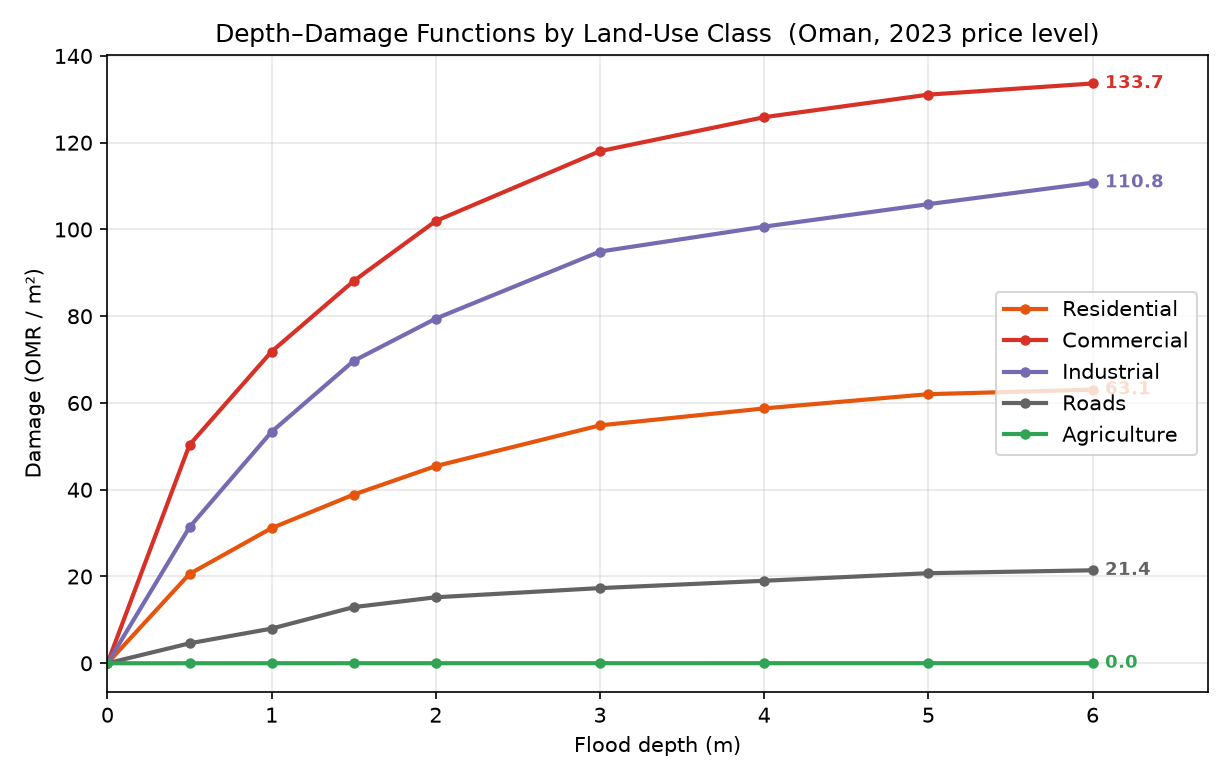
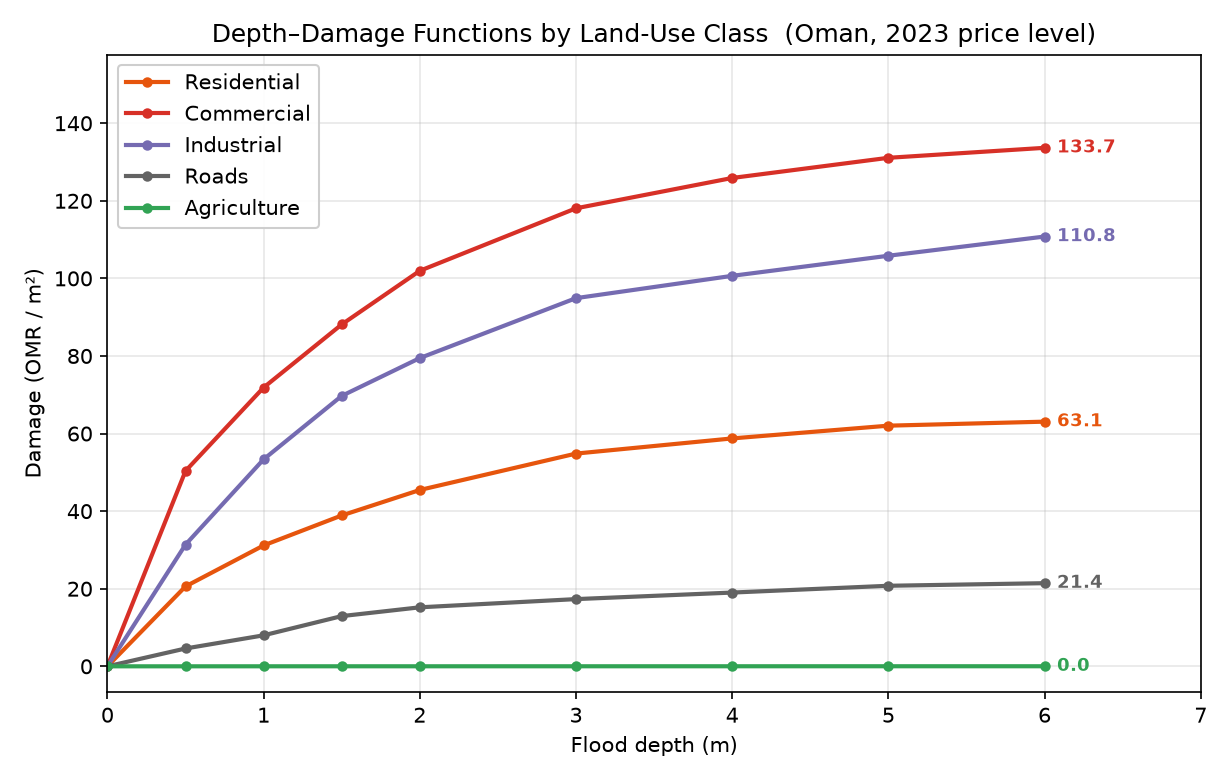
Client-ready report rewrite; chart fixes; clearer map population labels
- Rewrite report in professional client tone: methodology with equations,
  assumptions table, comprehensive damage/exposure tables, multi-criteria
  decision assessment, 200 & 500yr focus, EAPE defined; hazard->flood maps
- Charts: refresh AED (0.374), enlarge damage-by-class bar totals, fix
  depth-damage legend overlap, relabel scheme
- Maps: population footer now reads "Pop. exposed > 1 m:" (clearer)

diff --git a/report_build.js b/report_build.js
@@ -4,117 +4,177 @@ const { Document, Packer, Paragraph, TextRun, Table, TableRow, TableCell,
   Footer, PageNumber, LevelFormat } = require("docx");
 
 const OUT = "output", MAPS = "output/maps";
-const CW = 9026; // A4 content width (DXA)
+const CW = 9026;
 const GREY = { style: BorderStyle.SINGLE, size: 1, color: "CCCCCC" };
 const cellB = { top: GREY, bottom: GREY, left: GREY, right: GREY };
 
 const img = (p, w, h, cap) => {
-  const kids = [ new Paragraph({ alignment: AlignmentType.CENTER, spacing: { before: 120, after: 40 },
-    children: [ new ImageRun({ type: "png", data: fs.readFileSync(p),
-      transformation: { width: w, height: h },
+  const k = [ new Paragraph({ alignment: AlignmentType.CENTER, spacing: { before: 120, after: 40 },
+    children: [ new ImageRun({ type: "png", data: fs.readFileSync(p), transformation: { width: w, height: h },
       altText: { title: cap, description: cap, name: cap } }) ] }) ];
-  if (cap) kids.push(new Paragraph({ alignment: AlignmentType.CENTER, spacing: { after: 160 },
+  if (cap) k.push(new Paragraph({ alignment: AlignmentType.CENTER, spacing: { after: 160 },
     children: [ new TextRun({ text: cap, italics: true, size: 18, color: "666666" }) ] }));
-  return kids;
+  return k;
 };
 const P = (runs, opts={}) => new Paragraph({ spacing: { after: 120 }, ...opts,
   children: (Array.isArray(runs)?runs:[new TextRun(runs)]) });
+const EQ = (t) => new Paragraph({ alignment: AlignmentType.CENTER, spacing:{before:60,after:120},
+  children:[ new TextRun({ text:t, italics:true, size:22 }) ] });
 const H1 = t => new Paragraph({ heading: HeadingLevel.HEADING_1, children:[new TextRun(t)] });
 const H2 = t => new Paragraph({ heading: HeadingLevel.HEADING_2, children:[new TextRun(t)] });
 const bullet = t => new Paragraph({ numbering:{reference:"b",level:0}, spacing:{after:60},
   children:[Array.isArray(t)?null:new TextRun(t)].filter(Boolean).concat(Array.isArray(t)?t:[]) });
+const cap = (t) => new Paragraph({ alignment:AlignmentType.CENTER, spacing:{before:40,after:160},
+  children:[ new TextRun({ text:t, italics:true, size:18, color:"666666" }) ] });
 
-// table helper
-function table(headers, rows, widths, highlightLast) {
-  const mk = (txt, opts={}) => new TableCell({ borders: cellB, width:{size:opts.w,type:WidthType.DXA},
-    shading: opts.fill?{fill:opts.fill,type:ShadingType.CLEAR}:undefined,
-    margins:{top:60,bottom:60,left:110,right:110},
-    children:[new Paragraph({ alignment: opts.al||AlignmentType.LEFT,
-      children:[new TextRun({ text:String(txt), bold:!!opts.bold, size:20, color:opts.color })] })] });
+function table(headers, rows, widths, hiLast) {
+  const mk = (txt, o={}) => new TableCell({ borders: cellB, width:{size:o.w,type:WidthType.DXA},
+    shading: o.fill?{fill:o.fill,type:ShadingType.CLEAR}:undefined,
+    margins:{top:50,bottom:50,left:100,right:100},
+    children:[new Paragraph({ alignment:o.al||AlignmentType.LEFT,
+      children:[new TextRun({ text:String(txt), bold:!!o.bold, size:19, color:o.color })] })] });
   const hr = new TableRow({ tableHeader:true, children: headers.map((h,i)=>
     mk(h,{w:widths[i], bold:true, color:"FFFFFF", fill:"333333", al:i?AlignmentType.RIGHT:AlignmentType.LEFT})) });
-  const trs = rows.map((r,ri)=>{ const last = highlightLast && ri===rows.length-1;
+  const trs = rows.map((r,ri)=>{ const last = hiLast && ri===rows.length-1;
     return new TableRow({ children: r.map((c,i)=> mk(c,{w:widths[i],
       al:i?AlignmentType.RIGHT:AlignmentType.LEFT, bold:last, fill:last?"DDEBF7":(ri%2?"F2F2F2":undefined)})) }); });
   return new Table({ width:{size:CW,type:WidthType.DXA}, columnWidths:widths, rows:[hr,...trs] });
 }
 
-const AED = [["2","345,808","413,027"],["5","1,011,369","667,876"],["10","2,286,454","1,105,001"],
- ["25","3,513,744","1,352,664"],["50","4,670,209","1,576,424"],["100","5,900,757","1,818,153"],
- ["200","7,456,451","2,093,806"],["500","9,499,861","2,813,500"],["1000","11,019,644","3,789,619"],
- ["10000","14,243,470","8,922,389"]];
+// ---- data
+const DMG = [ // RP, base, scheme, avoided, areaB, areaS
+ ["2","430,603","413,027","17,576","3.21","1.98"],["5","1,011,369","667,876","343,493","4.72","2.87"],
+ ["10","2,286,454","1,105,001","1,181,453","6.09","3.73"],["25","3,513,744","1,352,664","2,161,081","6.80","4.09"],
+ ["50","4,670,209","1,576,424","3,093,785","7.14","4.39"],["100","5,900,757","1,818,152","4,082,605","7.39","4.68"],
+ ["200","7,456,451","2,093,806","5,362,645","7.57","4.96"],["500","9,499,861","2,813,500","6,686,361","7.75","5.73"],
+ ["1000","11,019,644","3,789,619","7,230,025","7.88","6.32"],["10000","14,243,470","8,922,389","5,321,080","8.12","7.76"] ];
+const EXP = [ // RP, expB, expS, gt1B, gt1S, avoidedGt1
+ ["2","1,796","1,085","158","84","74"],["5","3,147","1,629","524","132","392"],["10","4,527","2,155","1,335","205","1,130"],
+ ["25","5,356","2,438","2,110","258","1,852"],["50","5,862","2,699","2,813","312","2,501"],["100","6,207","2,978","3,564","374","3,190"],
+ ["200","6,432","3,253","4,334","447","3,887"],["500","6,617","3,831","5,259","783","4,476"],
+ ["1000","6,724","4,305","5,790","1,531","4,259"],["10000","7,012","6,489","6,334","4,394","1,940"] ];
 
 const doc = new Document({
-  styles: { default:{ document:{ run:{ font:"Arial", size:22 } } }, paragraphStyles:[
+  styles:{ default:{ document:{ run:{ font:"Arial", size:22 } } }, paragraphStyles:[
     { id:"Heading1", name:"Heading 1", basedOn:"Normal", next:"Normal", quickFormat:true,
       run:{ size:30, bold:true, font:"Arial", color:"1F3864" }, paragraph:{ spacing:{before:280,after:140}, outlineLevel:0 } },
     { id:"Heading2", name:"Heading 2", basedOn:"Normal", next:"Normal", quickFormat:true,
-      run:{ size:24, bold:true, font:"Arial", color:"2E5496" }, paragraph:{ spacing:{before:180,after:100}, outlineLevel:1 } },
-  ]},
+      run:{ size:24, bold:true, font:"Arial", color:"2E5496" }, paragraph:{ spacing:{before:180,after:100}, outlineLevel:1 } } ]},
   numbering:{ config:[{ reference:"b", levels:[{ level:0, format:LevelFormat.BULLET, text:"•", alignment:AlignmentType.LEFT, style:{ paragraph:{ indent:{ left:460, hanging:260 } } } }] }] },
   sections:[{
     properties:{ page:{ size:{ width:11906, height:16838 }, margin:{ top:1200, right:1440, bottom:1200, left:1440 } } },
     footers:{ default: new Footer({ children:[ new Paragraph({ alignment:AlignmentType.CENTER,
-      children:[ new TextRun({ text:"Wadi Majlas Flood Protection — Cost-Benefit Analysis   ·   ", size:16, color:"888888" }),
+      children:[ new TextRun({ text:"Wadi Majlas Flood Protection — Cost-Benefit Analysis    ", size:16, color:"888888" }),
         new TextRun({ children:[PageNumber.CURRENT], size:16, color:"888888" }) ] }) ] }) },
     children:[
       new Paragraph({ spacing:{after:40}, children:[ new TextRun({ text:"Wadi Majlas Flood Protection", bold:true, size:40, color:"1F3864" }) ] }),
-      new Paragraph({ spacing:{after:240}, children:[ new TextRun({ text:"Cost-Benefit Analysis  ·  Quriyat, Oman", size:26, color:"555555" }) ] }),
+      new Paragraph({ spacing:{after:240}, children:[ new TextRun({ text:"Technical and Economic Assessment  ·  Quriyat, Oman", size:26, color:"555555" }) ] }),
 
-      H1("1. Purpose"),
-      P("This study assesses whether the proposed Wadi Majlas dam-and-channel scheme is worth building. It compares the world with no scheme (baseline) against the world with the dam and dykes in place (scheme), across ten flood return periods from 2 to 10,000 years. For each we estimate flood damage, the annual expected damage, the resulting net present value and benefit-cost ratio, and — separately — how many people are pulled out of harm's way."),
-      P("The short answer is uncomfortable: on money alone the scheme does not pay back. But the same scheme is a strong life-safety measure. Both results are reported here so the decision can be made with eyes open."),
+      H1("1. Purpose and scope"),
+      P("This report presents the technical and economic assessment of the proposed Wadi Majlas flood-protection scheme — a storage dam on the wadi together with downstream channel dykes — evaluated against the do-nothing baseline. It quantifies the flood hazard, the direct flood damage, the economic return of the scheme, and its effect on the population at risk, to support the design and investment decision."),
+      P("The scheme is designed to protect against the 200-year flood, with its performance additionally verified at the 500-year event. Results are reported for ten return periods from 2 to 10,000 years so that both the design condition and the wider risk profile are visible."),
 
-      H1("2. Approach"),
-      P("Flood depth for every return period and both conditions comes from the HEC-RAS 2D model, exported at 2 m resolution. Depth is combined with land-use-specific depth-damage functions to produce a damage value for each event, which is then integrated over probability to give the Annual Expected Damage (AED). The difference between baseline and scheme AED is the annual avoided damage — the benefit stream. This is discounted over the project horizon and compared with construction, relocation and maintenance costs to give NPV and BCR. Population exposure is estimated the same way, using gridded population instead of damage."),
+      H1("2. Methodology"),
+      P("Flood damage is estimated cell-by-cell by combining modelled flood depth with land-use-specific depth-damage functions, then integrated over the full range of flood probabilities to give the Annual Expected Damage. The difference between the baseline and scheme conditions is the benefit stream, which is discounted and compared with scheme costs. Population exposure is derived on the same probabilistic basis."),
+      P([ new TextRun({text:"Direct damage per event. ",bold:true}), new TextRun("For a return period T, damage is summed over every flooded raster cell:") ]),
+      EQ("D(T) = Σ  fᶜ(h) · a"),
+      P([ new TextRun("where "), new TextRun({text:"fᶜ(h)",italics:true}), new TextRun(" is the depth-damage value (OMR/m²) for the land-use class c at flood depth "),
+        new TextRun({text:"h",italics:true}), new TextRun(", and "), new TextRun({text:"a",italics:true}), new TextRun(" is the cell area (m²).") ]),
+      P([ new TextRun({text:"Annual Expected Damage (AED). ",bold:true}), new TextRun("Damage is integrated over the annual exceedance probability "),
+        new TextRun({text:"p = 1/T",italics:true}), new TextRun(":") ]),
+      EQ("AED = ∫₀¹ D(p) dp  ≈  Σ  ½ ( Dᵢ + Dᵢ₊₁ )( pᵢ − pᵢ₊₁ )"),
+      P("evaluated by the trapezoidal rule over the modelled return periods. The avoided damage is the benefit of the scheme:"),
+      EQ("Annual avoided damage = AED(baseline) − AED(scheme)"),
+      P([ new TextRun({text:"Net Present Value and Benefit-Cost Ratio. ",bold:true}), new TextRun("Benefits and maintenance are discounted over the appraisal horizon "),
+        new TextRun({text:"n",italics:true}), new TextRun(" at rate "), new TextRun({text:"r",italics:true}), new TextRun(":") ]),
+      EQ("NPV = Σₜ₌₁ⁿ ( B − M ) / (1 + r)ᵗ  −  C₀"),
+      EQ("BCR = PV(benefits) / PV(costs) = PV(B) / [ C₀ + PV(M) ]"),
+      P([ new TextRun("where "), new TextRun({text:"B",italics:true}), new TextRun(" is the annual avoided damage, "),
+        new TextRun({text:"M",italics:true}), new TextRun(" the annual maintenance, and "), new TextRun({text:"C₀",italics:true}),
+        new TextRun(" the initial cost (dam + dykes + relocation). A scheme is economically justified when NPV > 0 and BCR > 1.") ]),
+      P([ new TextRun({text:"Population exposure. ",bold:true}), new TextRun("The same integration is applied to the number of people in the flood, giving the "),
+        new TextRun({text:"Expected Annual People Exposed (EAPE)",bold:true}), new TextRun(" — the average number of residents in floodwater per year. EAPE is reported for all floodwater and, as a life-safety indicator, for water deeper than one metre. “EAPE avoided” is the reduction the scheme delivers.") ]),
+      P([ new TextRun({text:"Note on hazard. ",bold:true}), new TextRun("The maps in Section 8 present flood depth and the resulting damage. A full flood "),
+        new TextRun({text:"hazard-to-life",italics:true}), new TextRun(" rating combines depth with flow velocity (typically HR = d(v + 0.5)); where velocity outputs are available this classification can be added to sharpen the life-safety assessment (see Section 10).") ]),
 
-      H1("3. Inputs"),
-      bullet("Flood depth (max) grids — HEC-RAS 2D, 2 m, baseline and scheme, 10 return periods."),
-      bullet("Depth-damage functions — OMR/m² by land use (residential, commercial, industrial, roads, agriculture), Oman price level."),
-      bullet("Cadastral land-use polygons, classified by use."),
-      bullet("Costs — dam 75 M OMR, dykes/channel 5 M OMR, relocation derived from plots within the works footprint; maintenance 1%/yr (dam) and 0.7%/yr (channel)."),
-      bullet("Discount rate 2.5%, appraisal horizon 50 years."),
-      bullet("Gridded population (GHS-POP 2025) for exposure and life-safety metrics."),
+      H1("3. Assumptions and inputs"),
+      table(["Item","Value / source","Notes"], [
+        ["Flood depth","HEC-RAS 2D, max depth, 2 m","Baseline and scheme, 10 return periods"],
+        ["Depth-damage functions","OMR/m² by land use","JRC global functions, Oman price level (2023)"],
+        ["Land use","Cadastral polygons","Residential, commercial, industrial, roads, agriculture"],
+        ["Dam capital cost","75,000,000 OMR",""],
+        ["Dyke / channel capital cost","5,000,000 OMR",""],
+        ["Relocation","Derived","Plots within works footprint × unit land price"],
+        ["Maintenance — dam","1.0% of capital / yr","From year 5"],
+        ["Maintenance — dykes","0.7% of capital / yr","From year 2"],
+        ["Discount rate","2.5%",""],
+        ["Appraisal horizon","50 years",""],
+        ["Population","GHS-POP 2025","Gridded residents"],
+        ["Damage below 2-yr / above 10,000-yr","Zero / held flat","Standard AED tail treatment"],
+      ], [2500,3100,3426]),
 
       H1("4. Flood damage"),
-      P("Damage rises steeply with return period and is overwhelmingly residential — agriculture floods the largest area but contributes almost nothing in value. The scheme cuts damage at every return period by confining flow to the channel and lowering depths across the protected zone."),
-      ...img(OUT+"/chart_damage_by_class.png", 600, 231, "Figure 1. Flood damage by land-use class — baseline vs scheme (total M OMR on each bar)."),
-      P("Total direct damage per event (OMR):"),
-      table(["Return period (yr)","Baseline","Scheme"], AED, [3009,3009,3008]),
+      P("Direct damage rises steeply with return period and is dominated by residential property; agriculture floods the largest area but contributes little value. The scheme reduces damage at every return period by confining flow to the dyked channel and lowering depths across the protected area."),
+      ...img(OUT+"/chart_damage_by_class.png", 600, 231, "Figure 1. Flood damage by land-use class — baseline vs scheme (total M OMR labelled on each bar)."),
+      P("Damage, avoided damage and inundated area by return period:"),
+      table(["RP (yr)","Baseline (OMR)","Scheme (OMR)","Avoided (OMR)","Base area (km²)","Scheme area (km²)"],
+        DMG, [820,1960,1960,1960,1163,1163]),
+      cap("Table 1. Direct flood damage and inundated area by return period."),
 
-      H1("5. Economics"),
-      P([ new TextRun("Integrating these over probability gives an "),
-        new TextRun({text:"AED of 0.77 M OMR/yr baseline against 0.40 M OMR/yr with the scheme — an annual avoided damage of about 0.37 M OMR.", bold:true}),
-        new TextRun(" Discounted over 50 years this is worth ~10.6 M OMR, well short of the ~80 M OMR of capital and relocation, before maintenance.") ]),
-      ...img(OUT+"/AED_curves.png", 600, 258, "Figure 2. Annual Expected Damage — the area between the curves is the avoided damage."),
+      H1("5. Economic appraisal"),
+      P([ new TextRun("Integrating damage over probability gives an Annual Expected Damage of "),
+        new TextRun({text:"0.77 M OMR/yr for the baseline and 0.40 M OMR/yr for the scheme — an annual avoided damage of 0.37 M OMR.",bold:true}),
+        new TextRun(" Over the 50-year horizon this benefit is worth about 10.6 M OMR in present-value terms.") ]),
+      ...img(OUT+"/AED_curves.png", 600, 258, "Figure 2. Annual Expected Damage — the shaded area between the curves is the avoided damage."),
       table(["Metric","Value (OMR)"], [
-        ["AED baseline","771,767"],["AED scheme","397,828"],["Annual avoided damage","373,939"],
-        ["Initial cost (dam 75 + channel 5 + relocation 0.17)","80,168,080"],
-        ["PV of benefits (50 yr @ 2.5%)","10,605,780"],["PV of maintenance","19,408,788"],
-        ["PV of costs","99,576,867"],["NPV","−88,971,087"],["BCR","0.107"]],
+        ["AED — baseline","771,767"],["AED — scheme","397,828"],["Annual avoided damage","373,939"],
+        ["Initial cost (dam 75 + dykes 5 + relocation 0.17)","80,168,080"],
+        ["Present value of benefits (50 yr @ 2.5%)","10,605,780"],["Present value of maintenance","19,408,788"],
+        ["Present value of costs","99,576,867"],["Net Present Value (NPV)","−88,971,087"],["Benefit-Cost Ratio (BCR)","0.107"] ],
         [6018,3008], true),
-      P([ new TextRun({text:"On a pure damage basis the scheme returns about 11 fils per rial spent (BCR 0.107; NPV −89 M OMR).", bold:true}),
-        new TextRun(" It would need land-and-buildings at risk several times greater than exists, or a far cheaper structure, to break even.") ]),
+      cap("Table 2. Economic summary."),
+      P("On direct-damage grounds the scheme does not recover its cost: the benefit-cost ratio is 0.11 and the net present value is −89 M OMR. This reflects the nature of the catchment — the protected land is predominantly agricultural and low-density residential, and the works reduce flood depth more than flood extent, so the avoided monetary damage is modest relative to the capital outlay. The economic result is placed alongside the life-safety and wider benefits in Section 9."),
 
-      H1("6. Population and life safety"),
-      P("This is where the scheme earns its keep. It does not simply cut a monetary loss — it removes people from dangerous water. Expressed as an expected-annual figure, the scheme keeps about 809 people a year out of floodwater altogether, and about 345 a year out of life-threatening water deeper than one metre."),
-      ...img(OUT+"/chart_exposure.png", 600, 231, "Figure 3. Population exposed (left) and in >1 m life-threatening water (right); orange is the exposure the scheme avoids."),
-      P([ new TextRun("At the 100-year event the effect is stark: people in water deeper than one metre fall from "),
-        new TextRun({text:"3,564 to 374 — an 89% reduction.", bold:true}),
-        new TextRun(" The scheme converts deep, fast, dangerous flooding into shallow nuisance flooding across the populated area.") ]),
+      H1("6. Population exposure and life safety"),
+      P([ new TextRun("Expressed as an expected-annual figure, the scheme keeps about "),
+        new TextRun({text:"809 people per year out of floodwater, and about 345 per year out of life-threatening water deeper than one metre",bold:true}),
+        new TextRun(" (EAPE avoided). The benefit grows with the severity of the event.") ]),
+      ...img(OUT+"/chart_exposure.png", 600, 231, "Figure 3. People exposed (left) and in >1 m water (right); the shaded band is the exposure the scheme avoids."),
+      P("At the design and check events the reduction in life-threatening exposure is decisive:"),
+      table(["Event","Exposed — base","Exposed — scheme","In >1 m — base","In >1 m — scheme",">1 m reduction"],
+        [["200-year","6,432","3,253","4,334","447","90%"],["500-year","6,617","3,831","5,259","783","85%"]],
+        [1300,1545,1545,1545,1545,1546]),
+      cap("Table 3. Population exposure at the 200-year design event and 500-year check."),
+      P("The scheme converts deep, fast, dangerous flooding into shallow nuisance flooding across the populated area. Full exposure figures for all return periods are given in Table 4."),
+      table(["RP (yr)","Exposed base","Exposed scheme",">1 m base",">1 m scheme","Avoided >1 m"],
+        EXP, [1226,1560,1560,1500,1500,1680]),
+      cap("Table 4. Population exposure by return period."),
 
-      H2("Other non-monetized benefits"),
-      P("Lives saved are the headline, but they are not the only benefit that the damage-based ratio cannot see. A decision on this scheme should also weigh:"),
-      bullet("Injury and trauma avoided — the physical injuries, and the lasting displacement and psychological toll, that follow a fatal flash flood."),
-      bullet("Continuity of access — roads and routes to homes, the hospital and emergency services stay passable during an event, exactly when they are needed most; deep wadi flooding otherwise cuts the town in two."),
-      bullet("Protected livelihoods — repeated inundation degrades farmland and interrupts shops and businesses; reducing depth and duration protects income, not just buildings."),
-      bullet("Lower response and recovery burden — every avoided major flood is a rescue, clean-up and reconstruction effort the authorities do not have to mount."),
-      bullet("Community stability and confidence — durable flood protection supports investment and discourages abandonment of exposed but valuable land."),
-      bullet("Reduced erosion and sedimentation along the wadi and to downstream roads, culverts and services."),
-      P("None of these sit in the numbers above, and several could be quantified with further study. They all point the same way: the scheme is worth more than its property-damage benefit alone suggests."),
+      H2("Non-monetized benefits"),
+      P("Beyond lives saved, the scheme delivers benefits that a damage-based ratio cannot capture but that bear on the decision:"),
+      bullet("Injury and trauma avoided — the injuries, displacement and lasting distress that follow a fatal flash flood."),
+      bullet("Continuity of access — roads and routes to homes, the hospital and emergency services stay passable during an event, when they are needed most."),
+      bullet("Protected livelihoods — repeated inundation degrades farmland and interrupts businesses; reducing depth and duration protects income, not only assets."),
+      bullet("Lower response and recovery burden on the authorities after each event."),
+      bullet("Community stability and confidence — durable protection supports investment and discourages abandonment of exposed land."),
+      bullet("Reduced erosion and sedimentation along the wadi and to downstream infrastructure."),
 
-      H1("7. Hazard maps"),
-      P("The 200- and 500-year events — depth then damage, baseline then scheme. The full set (all return periods, both conditions) accompanies this report."),
+      H1("7. Decision assessment"),
+      P("A flood-protection scheme cannot be judged on its benefit-cost ratio alone; the ratio values only direct property damage and is blind to life safety and service continuity. The table below weighs the economic result together with the non-monetary factors on a transparent scale. Weights are indicative and may be adjusted by the client to reflect policy priorities; a score of 5 is strong performance, 1 is weak."),
+      table(["Criterion","Weight","Score /5","Weighted","Assessment"], [
+        ["Economic return (BCR / NPV)","25%","1","0.25","Benefits below cost (BCR 0.11)"],
+        ["Life safety","30%","5","1.50","~90% fewer people in >1 m water at design event"],
+        ["Design-standard compliance","20%","5","1.00","Meets 200-yr target; resilient at 500-yr"],
+        ["Access to essential services","10%","4","0.40","Roads and hospital access maintained in flood"],
+        ["Livelihoods and property","10%","3","0.30","Reduced repeat inundation of homes and farmland"],
+        ["Environment and wadi morphology","5%","3","0.15","Reduced erosion and sedimentation"],
+        ["Overall","100%","—","3.60 / 5","Favourable overall, despite weak economics"],
+      ], [2450,900,900,1100,3676], true),
+      cap("Table 5. Multi-criteria assessment of the scheme (indicative weights)."),
+      P("Weighted across the factors that matter for a flood-protection scheme, the project scores 3.6 out of 5 — favourable — even though its economic criterion alone scores poorly. The single low score (economics) is outweighed by strong performance on life safety and design-standard compliance."),
+
+      H1("8. Flood maps"),
+      P("Flood depth and the resulting damage at the 200-year design event and the 500-year check, baseline then scheme. The complete set for all return periods accompanies this report."),
       H2("200-year event"),
       ...img(MAPS+"/depth_200yr_baseline.png", 560, 396, "Figure 4. Flood depth, 200-year — baseline."),
       ...img(MAPS+"/depth_200yr_scheme.png", 560, 396, "Figure 5. Flood depth, 200-year — scheme (dam axis in red, dykes in orange)."),
@@ -126,14 +186,17 @@ const doc = new Document({
       ...img(MAPS+"/damage_500yr_baseline.png", 560, 396, "Figure 10. Flood damage, 500-year — baseline."),
       ...img(MAPS+"/damage_500yr_scheme.png", 560, 396, "Figure 11. Flood damage, 500-year — scheme."),
 
-      H1("8. Findings and recommendation"),
-      P([ new TextRun({text:"Do not defend this scheme on its benefit-cost ratio. ", bold:true}),
-        new TextRun("At 0.107 it fails the economic test decisively, and no reasonable change to the discount rate rescues it. The reason is structural: the protected land is mostly low-value agriculture and modest housing, and the works reduce flood depth more than flood extent, so the monetary saving is small.") ]),
-      P([ new TextRun({text:"Do weigh it on life safety. ", bold:true}),
-        new TextRun("The scheme removes roughly nine in ten people from life-threatening flooding at the design event and avoids around 345 life-threatening exposures a year in expectation. That is the honest case for building it, and a benefit-cost ratio built only on property damage cannot see it.") ]),
-      P("Two practical points. First, at the very frequent 2-year event the scheme currently shows slightly worse flooding than baseline — a likely backwater/ponding effect behind the works that should be checked in the hydraulic model. Second, if a monetary decision is unavoidable, the life-safety benefit can be valued explicitly (value-of-statistical-life), but that is a policy choice and is deliberately left out of the figures above."),
-      P([ new TextRun({text:"Bottom line: ", bold:true}),
-        new TextRun("a poor investment in property terms, a strong one in human terms. The decision should be made on that trade-off, not on the BCR alone.") ]),
+      H1("9. Conclusion"),
+      P("The Wadi Majlas scheme meets its 200-year protection standard and performs well at the 500-year check. Economically, on avoided direct damage alone it does not pay back (BCR 0.11, NPV −89 M OMR), because the protected assets are mostly low-value. Its principal benefit is the reduction of flood risk to life: at the design event it removes roughly nine in ten people from life-threatening water, and in expected-annual terms it avoids about 345 life-threatening exposures each year, together with the wider benefits to access, livelihoods and the community set out above."),
+      P("On a combined assessment the scheme is favourable. It is recommended that the investment decision be taken on this combined economic and life-safety basis, recognising that the benefit-cost ratio, taken in isolation, understates the true value of the works."),
+
+      H1("10. Recommendations and next steps"),
+      bullet("Adopt the combined economic + life-safety basis (Section 7) for the decision, rather than the benefit-cost ratio alone."),
+      bullet([ new TextRun("Refine the life-safety assessment with a depth-velocity "),
+        new TextRun({text:"hazard-to-life",italics:true}),
+        new TextRun(" rating (HR = d(v + 0.5)) once maximum-velocity grids are exported from the model, classifying hazard as low / moderate / significant / extreme.") ]),
+      bullet("Review the 2-year event, where the scheme shows a marginal local increase in depth (a backwater effect behind the works), to confirm no adverse impact at frequent flows."),
+      bullet("If a fully monetized decision is required, value the life-safety benefit explicitly using a value-of-statistical-life approach, reported as a range."),
     ]
   }]
 });

diff --git a/scripts/plot_charts.py b/scripts/plot_charts.py
@@ -28,7 +28,8 @@ def fig_curves():
                     color=col, va="center", fontweight="bold")
     ax.set_xlabel("Flood depth (m)"); ax.set_ylabel("Damage (OMR / m²)")
     ax.set_title("Depth–Damage Functions by Land-Use Class  (Oman, 2023 price level)")
-    ax.set_xlim(0, 6.7); ax.grid(alpha=.3); ax.legend(loc="center right")
+    ax.set_xlim(0, 7.0); ax.set_ylim(top=max(C.DAMAGE_CURVES["Commercial"]) * 1.18)
+    ax.grid(alpha=.3); ax.legend(loc="upper left", framealpha=.95)
     fig.tight_layout(); fig.savefig(os.path.join(C.OUT_DIR, "chart_depth_damage_curves.png"), dpi=150)
 
 
@@ -74,7 +75,7 @@ def fig_damage_class():
             ax.bar(x, vals, bottom=bottom, color=PLOT[c], label=c); bottom += vals
         for xi, tot in zip(x, bottom):
             ax.annotate(f"{tot:.1f}", (xi, tot), textcoords="offset points",
-                        xytext=(0, 2), ha="center", fontsize=7.5, fontweight="bold")
+                        xytext=(0, 3), ha="center", fontsize=10, fontweight="bold")
         ax.set_xticks(x); ax.set_xticklabels([str(rp) for rp in rps], rotation=45)
         ax.set_xlabel("Return period (yr)"); ax.set_title(cond.title())
         ax.grid(alpha=.3, axis="y")

diff --git a/scripts/plot_aed.py b/scripts/plot_aed.py
@@ -44,7 +44,7 @@ def main():
     ax1.fill_between(pp, 0, dss, color="#9db8c9", alpha=.55,
                      label=f"Scheme residual (AED = {aed_s:.2f} M/yr)")
     ax1.plot(pp, dbb, "-o", color="#2b3a55", lw=2, ms=5, label=f"Baseline (AED = {aed_b:.2f} M/yr)")
-    ax1.plot(pp, dss, "-o", color="#c0562b", lw=2, ms=5, label="Dam + channel scheme")
+    ax1.plot(pp, dss, "-o", color="#c0562b", lw=2, ms=5, label="Scheme")
     ax1.set_xlabel("Annual exceedance probability  (1 / return period)")
     ax1.set_ylabel("Flood damage  (million OMR)")
     ax1.set_title("AED — area under curve = expected annual damage")
@@ -58,7 +58,7 @@ def main():
 
     # ---- panel 2: return-period axis (engineering view) ----------------------
     ax2.plot(rps, db, "-o", color="#2b3a55", lw=2, ms=5, label="Baseline")
-    ax2.plot(rps, ds, "-o", color="#c0562b", lw=2, ms=5, label="Dam + channel scheme")
+    ax2.plot(rps, ds, "-o", color="#c0562b", lw=2, ms=5, label="Scheme")
     ax2.fill_between(rps, ds, db, color="#f0a54a", alpha=.6, label="Avoided (per event)")
     ax2.set_xscale("log")
     ax2.set_xlabel("Return period  (years, log scale)")